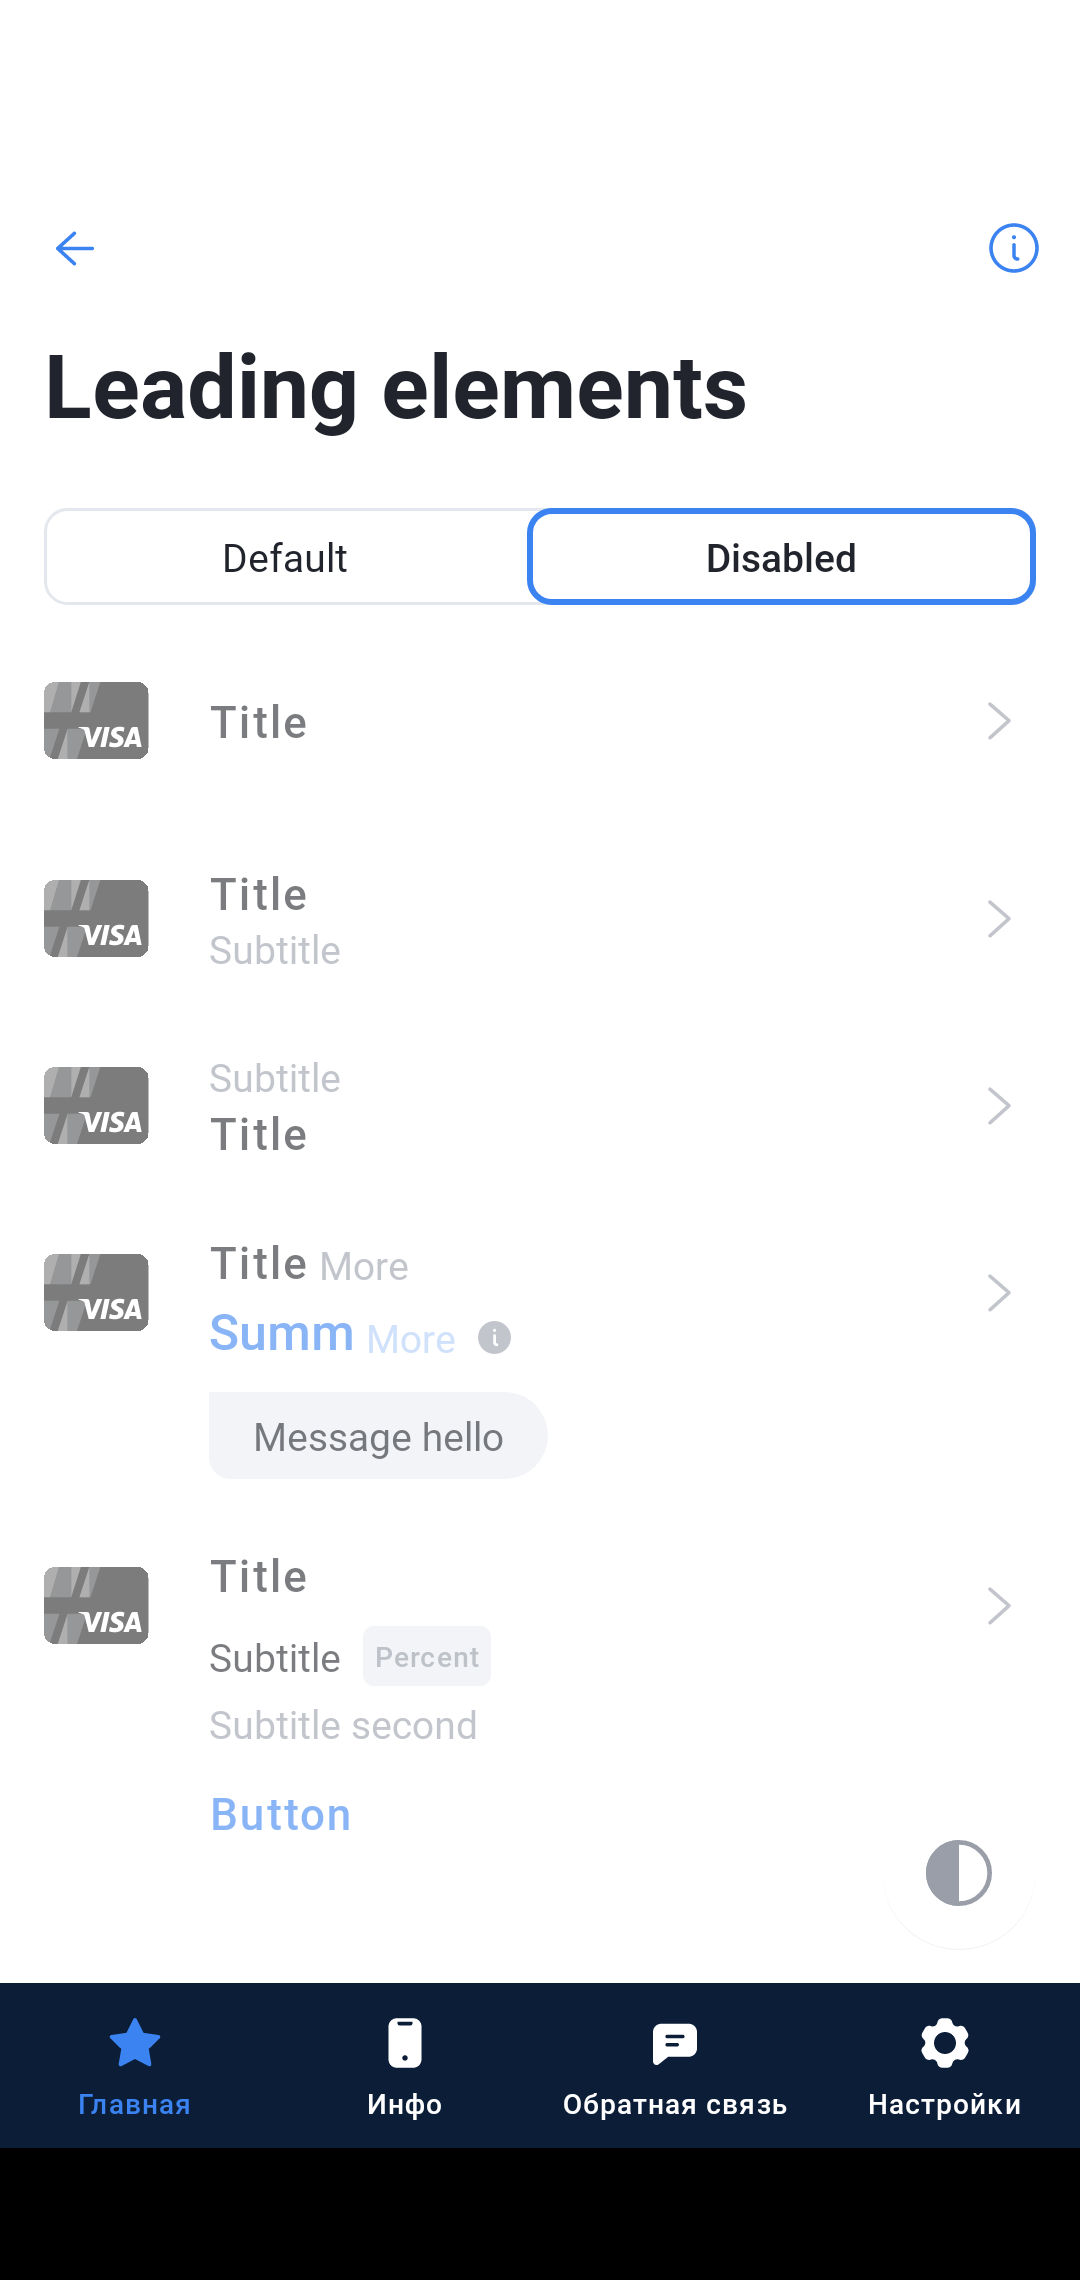
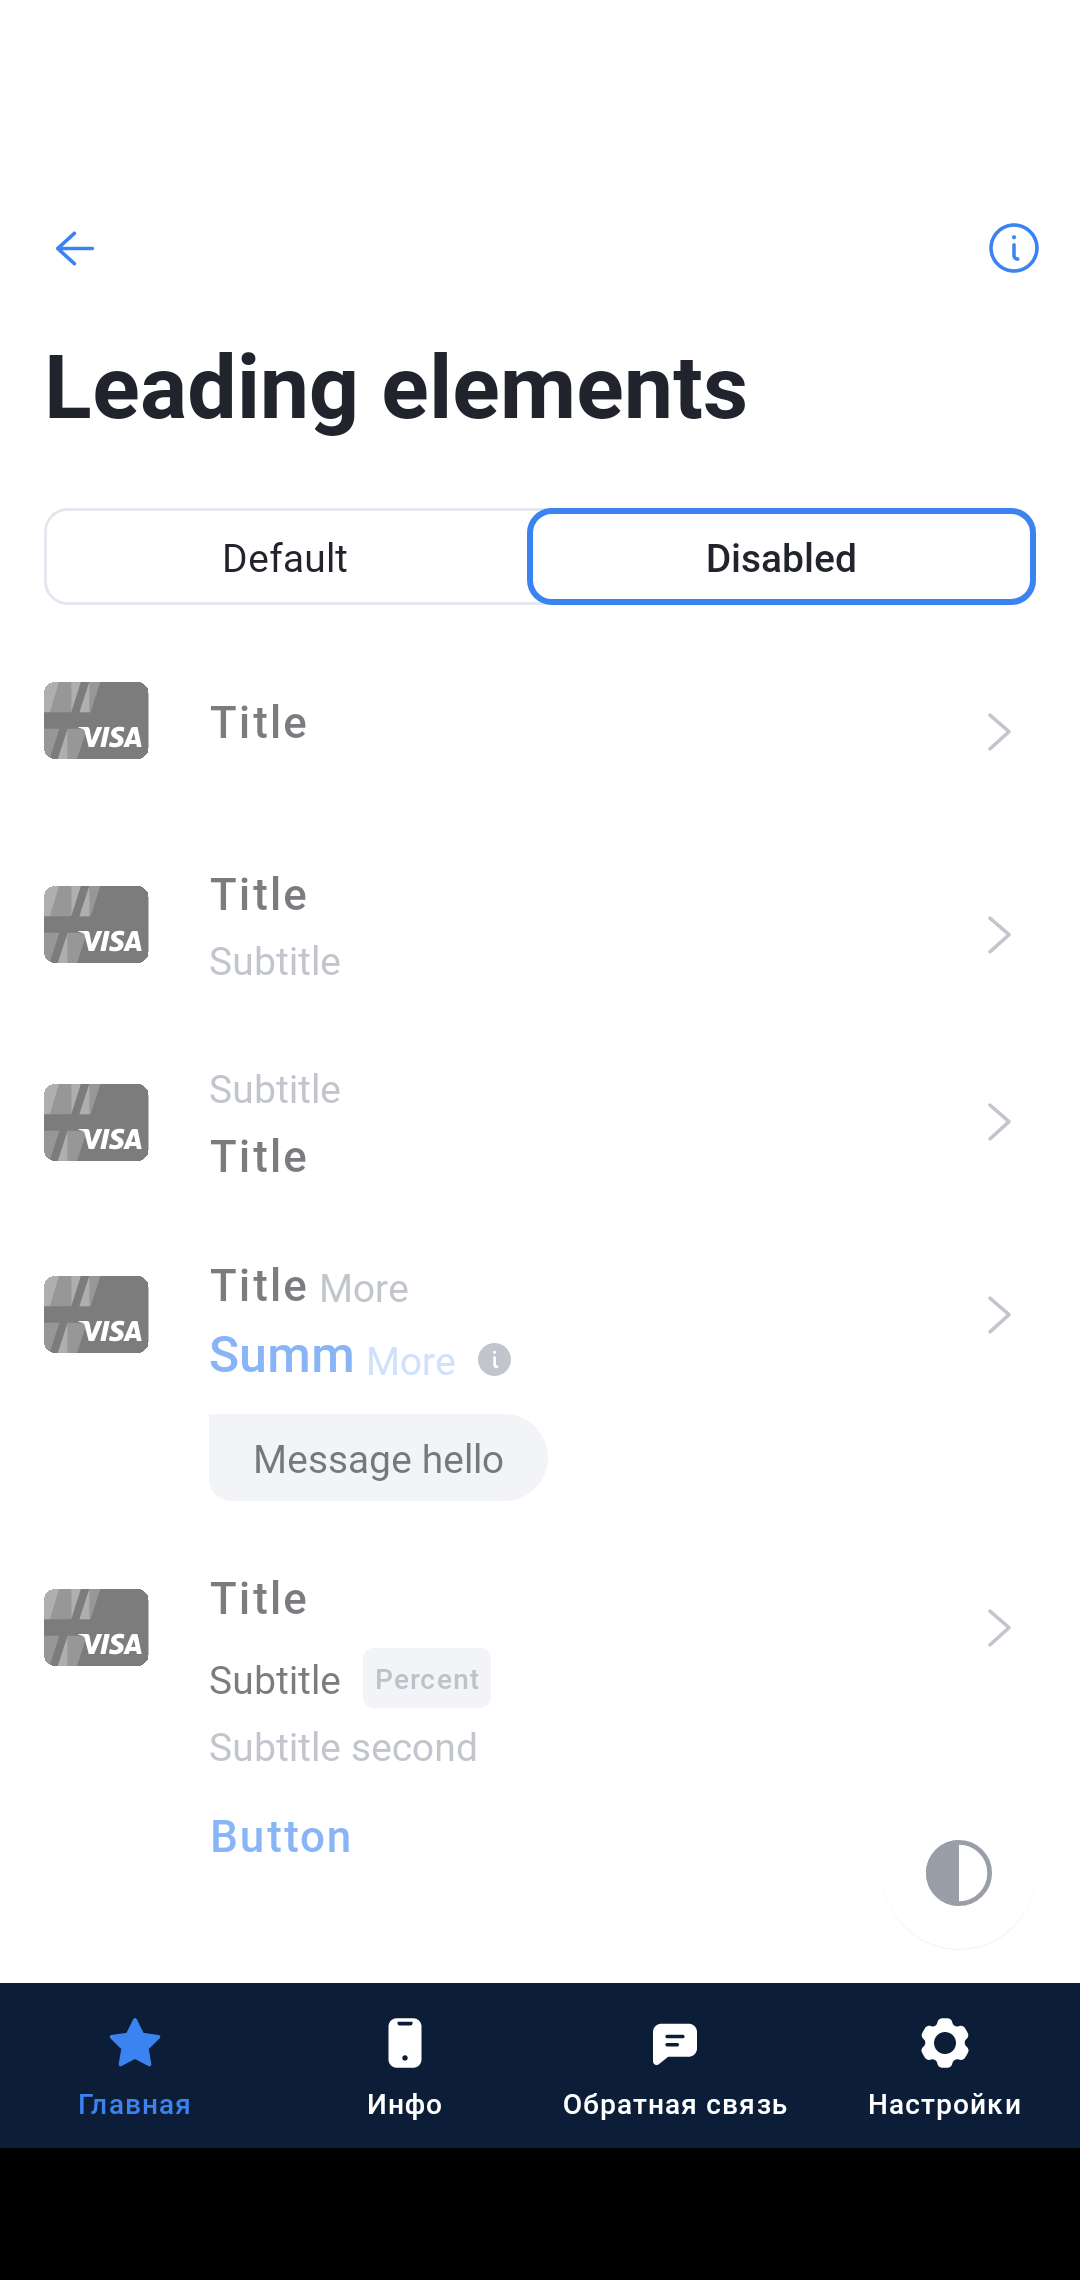
[BUG] - Cells: fix TitleSubtitle' margin, set min height, enable editing gravity for leading and trailing elements.

diff --git a/admiral-uikit/src/main/java/com/admiral/uikit/components/cell/BaseCell.kt b/admiral-uikit/src/main/java/com/admiral/uikit/components/cell/BaseCell.kt
@@ -2,6 +2,7 @@ package com.admiral.uikit.components.cell
 
 import android.content.Context
 import android.util.AttributeSet
+import android.view.Gravity
 import android.view.View
 import androidx.constraintlayout.widget.Barrier
 import androidx.constraintlayout.widget.ConstraintSet
@@ -15,6 +16,7 @@ import com.admiral.uikit.common.components.cell.base.CellUnitType
 import com.admiral.uikit.common.ext.withAlpha
 import com.admiral.uikit.common.foundation.ColorState
 import com.admiral.uikit.common.util.ComponentsRadius
+import com.admiral.uikit.ext.dpToPx
 import com.admiral.uikit.ext.parseAttrs
 import com.admiral.uikit.ext.pixels
 import com.admiral.uikit.ext.ripple
@@ -29,6 +31,8 @@ class BaseCell @JvmOverloads constructor(
 ) : ConstraintLayout(context, attrs, defStyleAttr) {
 
     private val baseCellElements = HashMap<CellUnitType, CellUnit>()
+    private var leadingGravity = Gravity.CENTER_HORIZONTAL
+    private var trailingGravity = Gravity.CENTER_HORIZONTAL
 
     /**
      * Sets the radius to the view. By default the radius is 0. You can use admiralRadius attribute from xml.
@@ -42,6 +46,8 @@ class BaseCell @JvmOverloads constructor(
     init {
         parseAttrs(attrs, R.styleable.BaseCell).use {
             radius = ComponentsRadius.from(it.getInt(R.styleable.BaseCell_admiralRadius, 0))
+            leadingGravity = it.getInt(R.styleable.BaseCell_admiralLeadingElementGravity, Gravity.CENTER_HORIZONTAL)
+            trailingGravity = it.getInt(R.styleable.BaseCell_admiralTrailingElementGravity, Gravity.CENTER_HORIZONTAL)
         }
 
         this.setPadding(
@@ -50,6 +56,8 @@ class BaseCell @JvmOverloads constructor(
             paddingRight,
             paddingBottom + pixels(R.dimen.module_x3)
         )
+
+        minHeight = MIN_HEIGHT.dpToPx(context)
     }
 
     override fun addView(child: View?) {
@@ -128,6 +136,10 @@ class BaseCell @JvmOverloads constructor(
         trailingViewId?.let {
             set.connect(it, ConstraintSet.TOP, ConstraintSet.PARENT_ID, ConstraintSet.TOP)
             set.connect(it, ConstraintSet.END, ConstraintSet.PARENT_ID, ConstraintSet.END)
+
+            if (trailingGravity == Gravity.CENTER_HORIZONTAL) {
+                set.connect(it, ConstraintSet.BOTTOM, ConstraintSet.PARENT_ID, ConstraintSet.BOTTOM)
+            }
         }
 
         // Leading
@@ -135,6 +147,9 @@ class BaseCell @JvmOverloads constructor(
         leadingViewId?.let {
             set.connect(it, ConstraintSet.START, ConstraintSet.PARENT_ID, ConstraintSet.START)
             set.connect(it, ConstraintSet.TOP, ConstraintSet.PARENT_ID, ConstraintSet.TOP)
+            if (leadingGravity == Gravity.CENTER_HORIZONTAL) {
+                set.connect(it, ConstraintSet.BOTTOM, ConstraintSet.PARENT_ID, ConstraintSet.BOTTOM)
+            }
 
             if (trailingViewId != null) {
                 set.connect(it, ConstraintSet.END, trailingViewId, ConstraintSet.START)
@@ -175,5 +190,6 @@ class BaseCell @JvmOverloads constructor(
 
     companion object {
         const val RIPPLE_ALPHA = 0.1F
+        const val MIN_HEIGHT = 72
     }
 }
